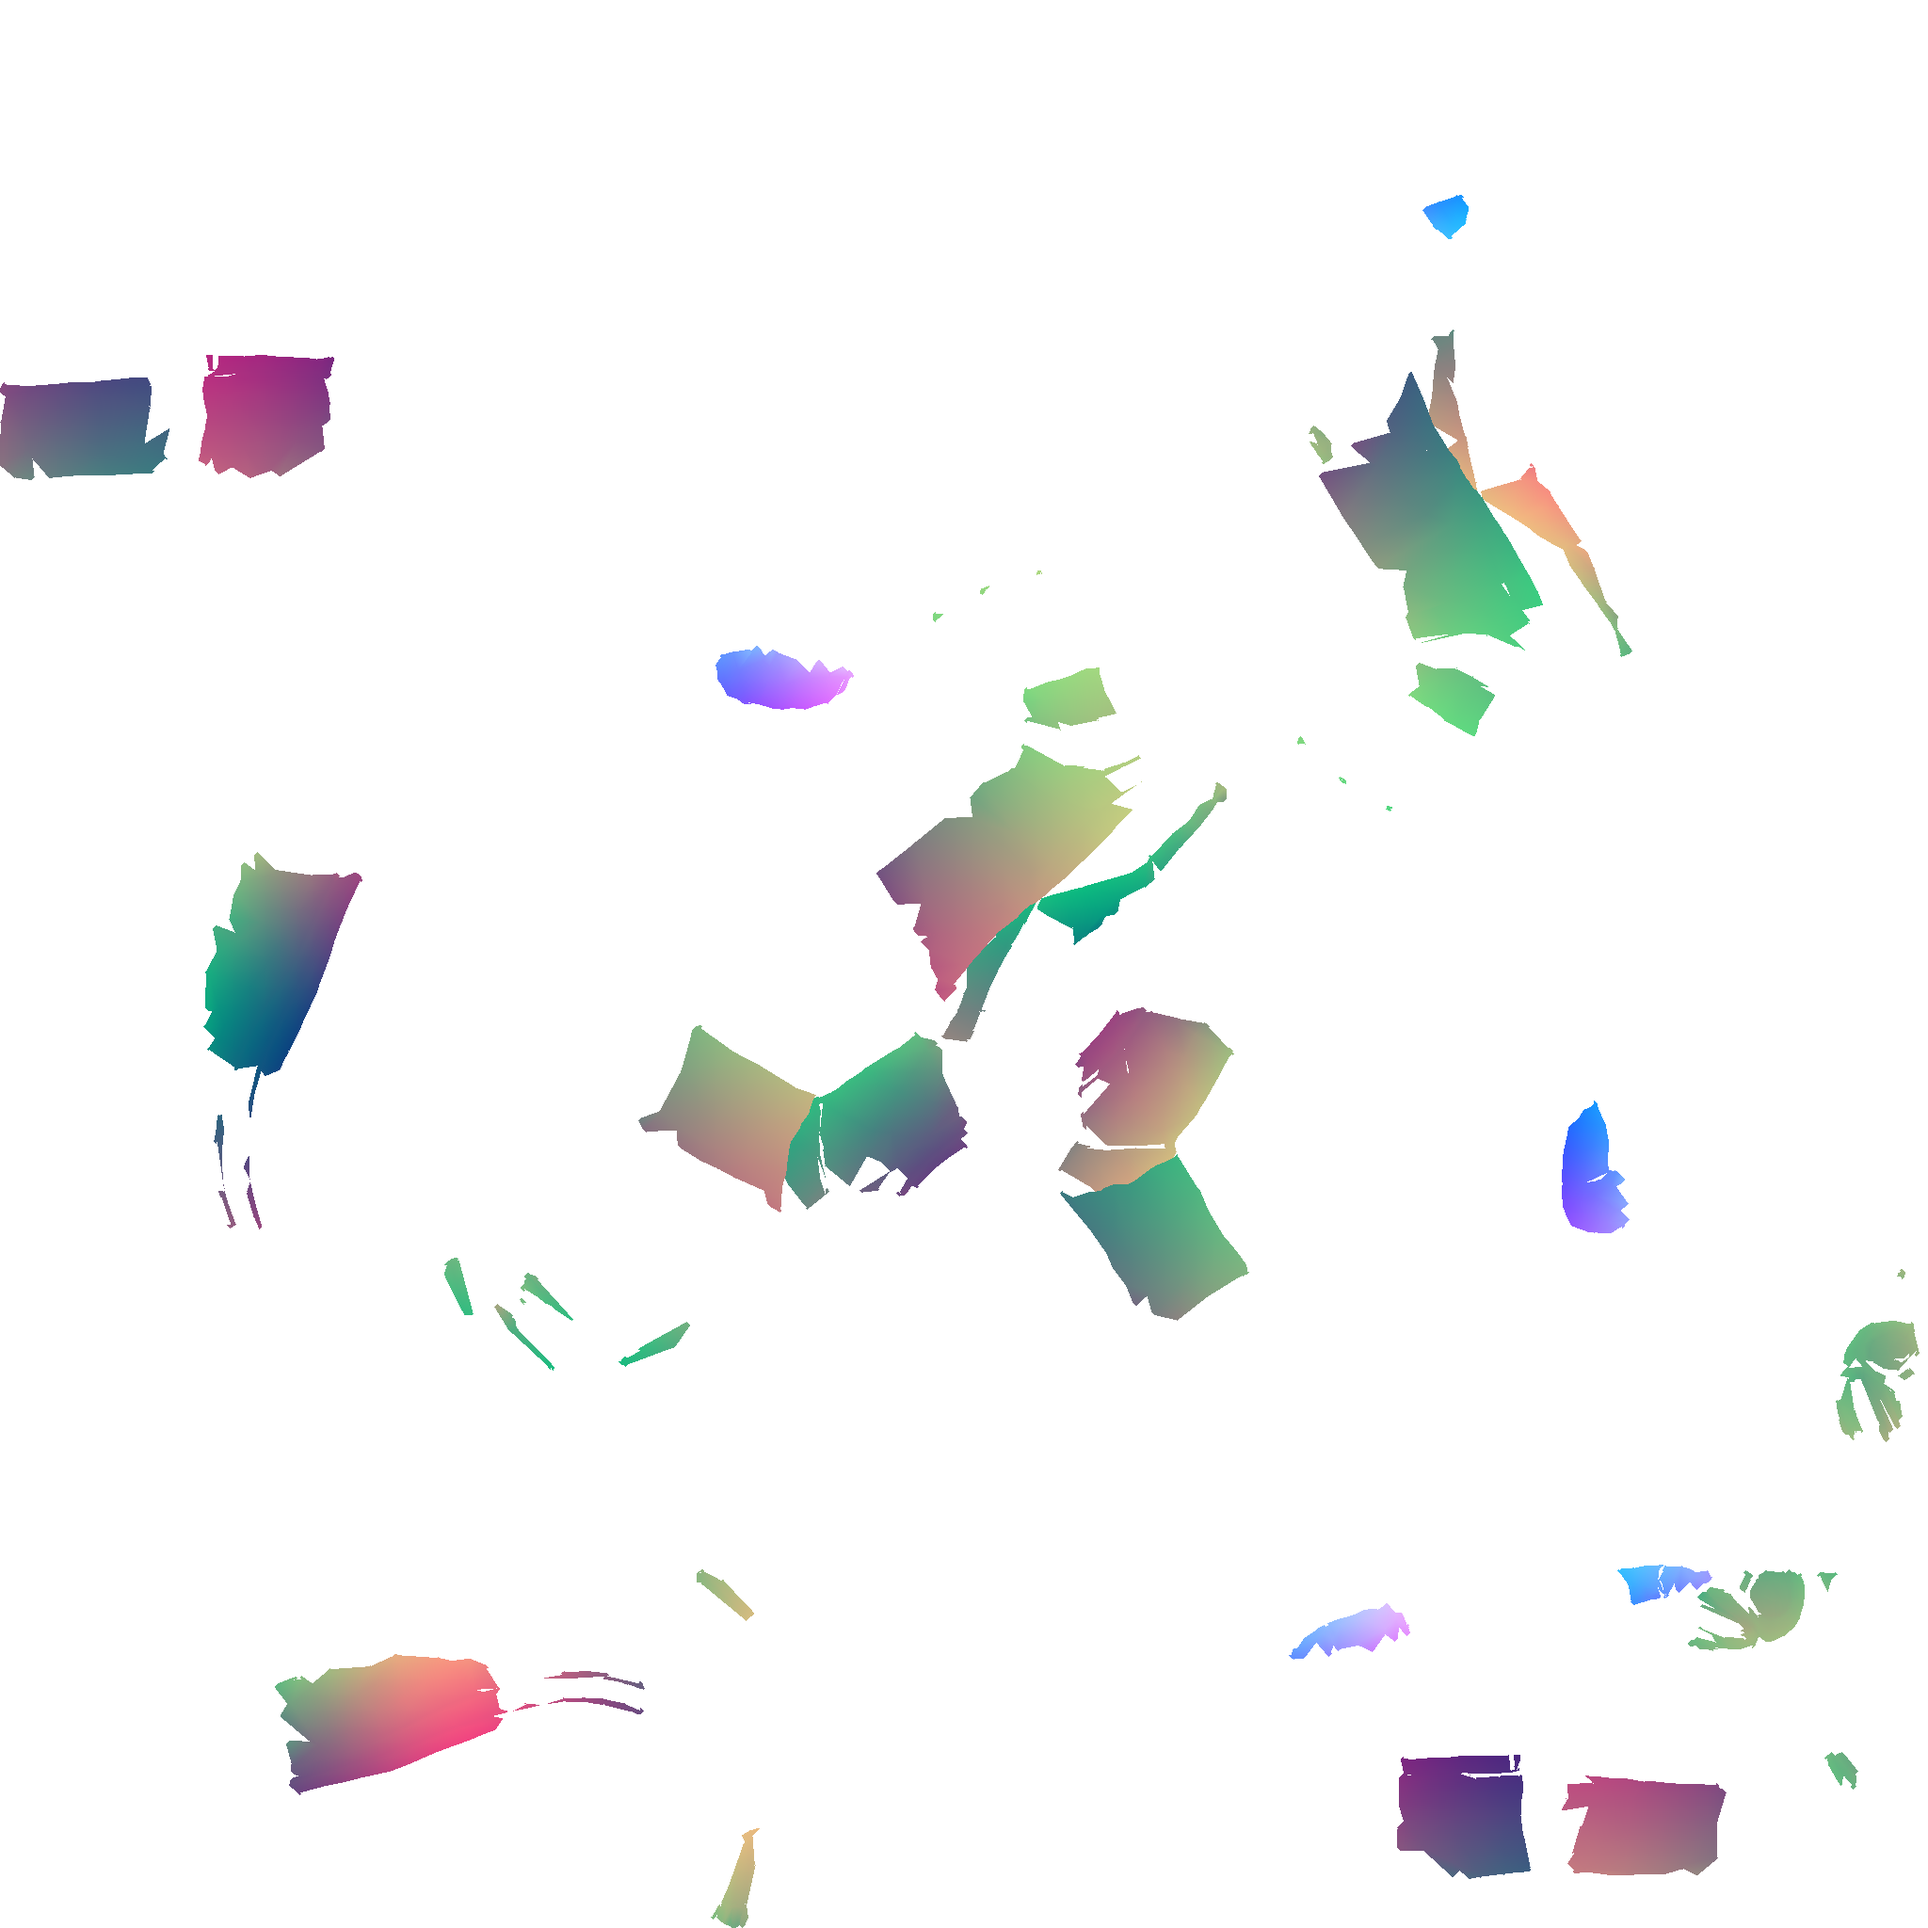
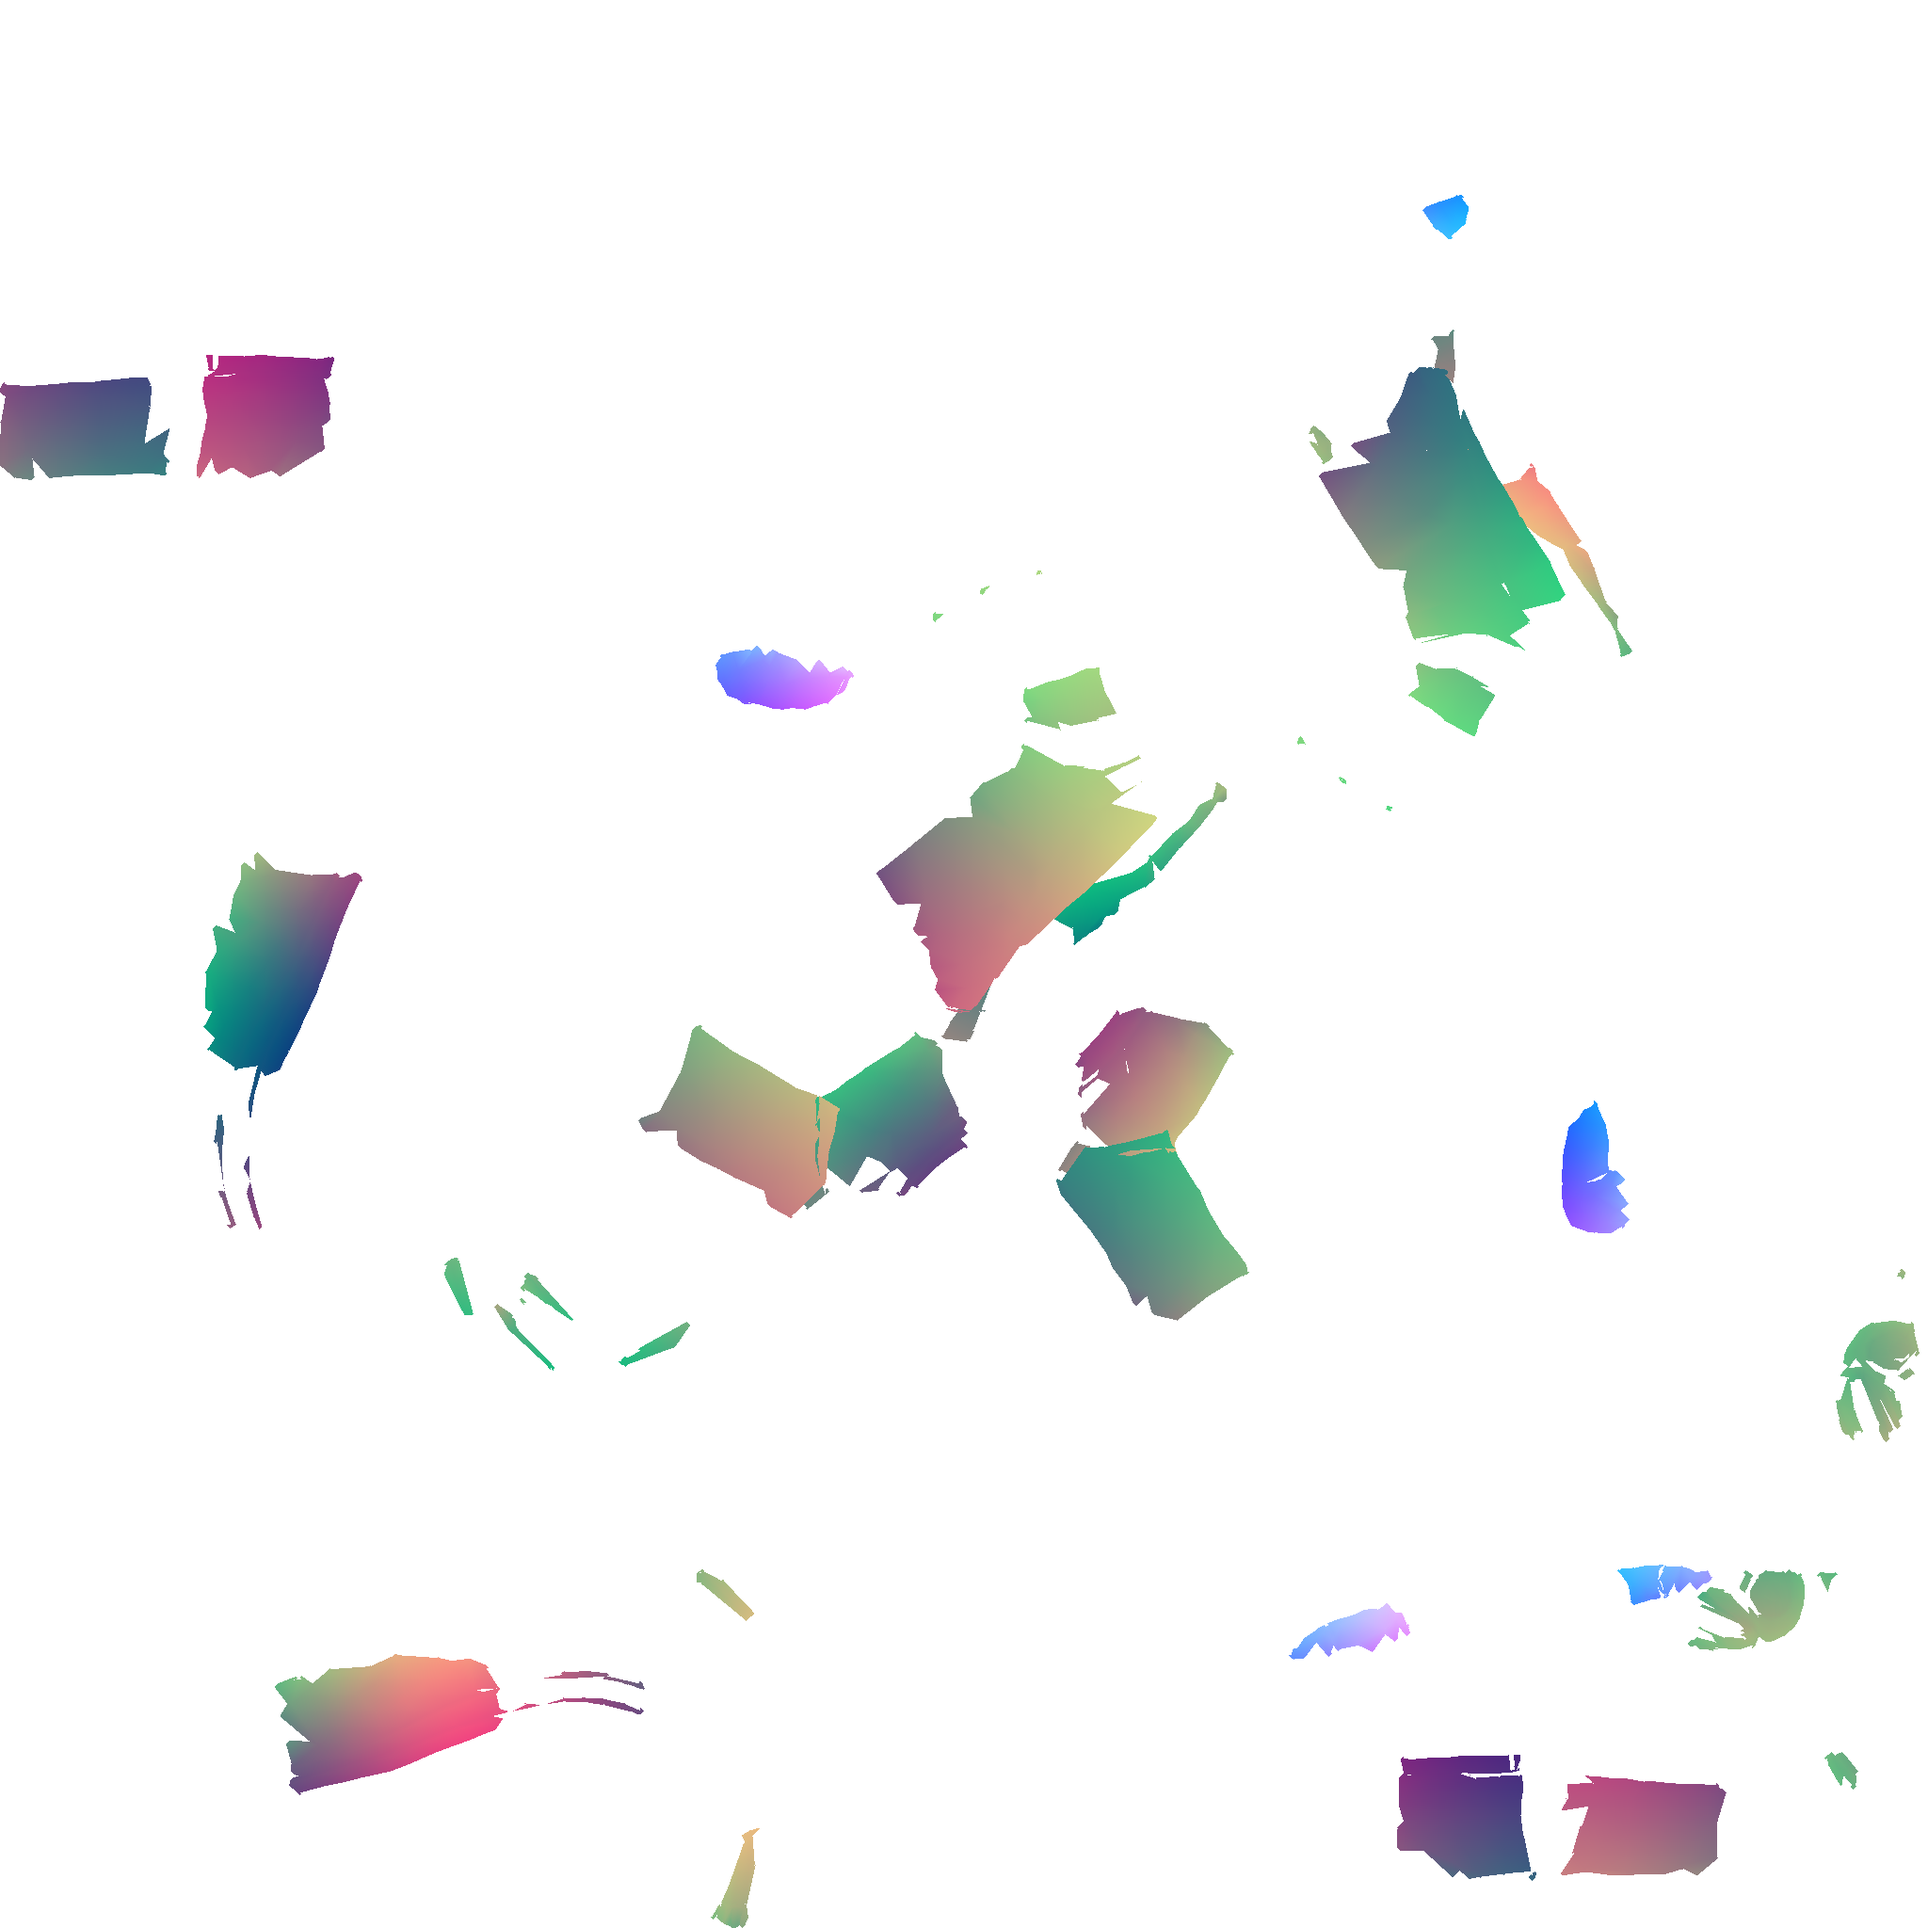
Wider chest and back number zones so two-digit numbers aren't clipped (marks.py MARKS_ONLY=1)
Claude-Session: https://claude.ai/code/session_0112Bki14kSXQy2zjyY16gTM

diff --git a/tools/rig/marks.py b/tools/rig/marks.py
@@ -3,7 +3,7 @@
 # the PocketParty/Toon shader where a number or an eye goes on each texel.
 #   marks map RGBA: R, G = the texel's spot in its zone (number: in number heights, -1.5..1.5; eye: in iris radii, -3..3;
 #   both 0..1 in the PNG), B = 128 number / 255 eye, A = 255 inside the zone (an eye's: inside its opening only).
-# usage: python3 marks.py <uvmap.npz> <zones.json> <Models dir> [preview.png]
+# usage: [MARKS_ONLY=1] python3 marks.py <uvmap.npz> <zones.json> <Models dir> [preview.png]
 #   uvmap.npz from uvmap.py (the rest-pose point and normal under every texel of the colour map).
 #   zones.json: {"marks": "Chiefs24/Chiefs24_Marks.png", "textures": [{"file": ..., "hue": jersey hue in degrees}],
 #     "zones": [{"kind": "number"|"eye", "c": centre [x,y,z] m, "n": facing, "up": up, "w","h": half box m,
@@ -133,6 +133,8 @@ Image.fromarray((marks * 255 + 0.5).astype(np.uint8), 'RGBA').save(out)
 print('wrote', out)
 
 # ---- paint the old numbers and irises out of each colour map ----
+# (MARKS_ONLY=1: the maps are already painted out; only the marks map is rewritten, e.g. after widening a zone)
+if os.environ.get('MARKS_ONLY') == '1': sys.exit(0)
 def inpaint(rgb, hole, source, iters=400):
     # each hole texel takes the average of its known neighbours (5x5), ring by ring in from the edge; only the hole
     # texels are visited
